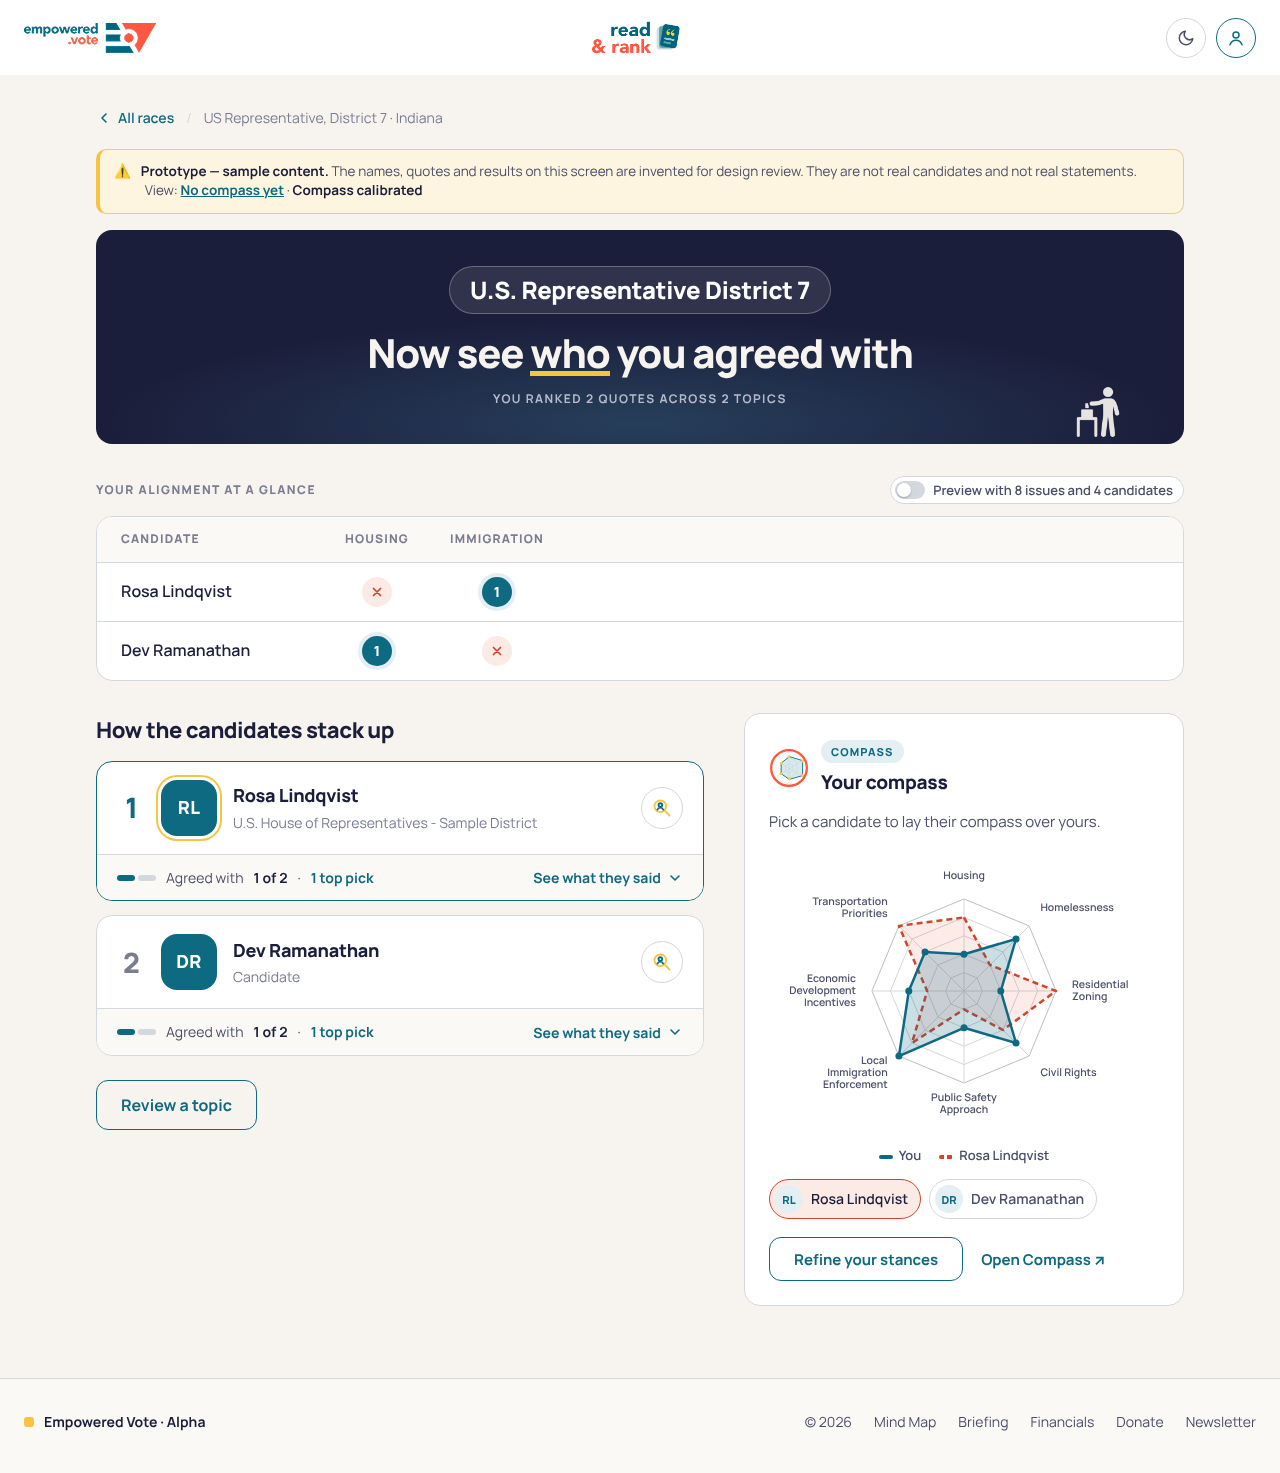
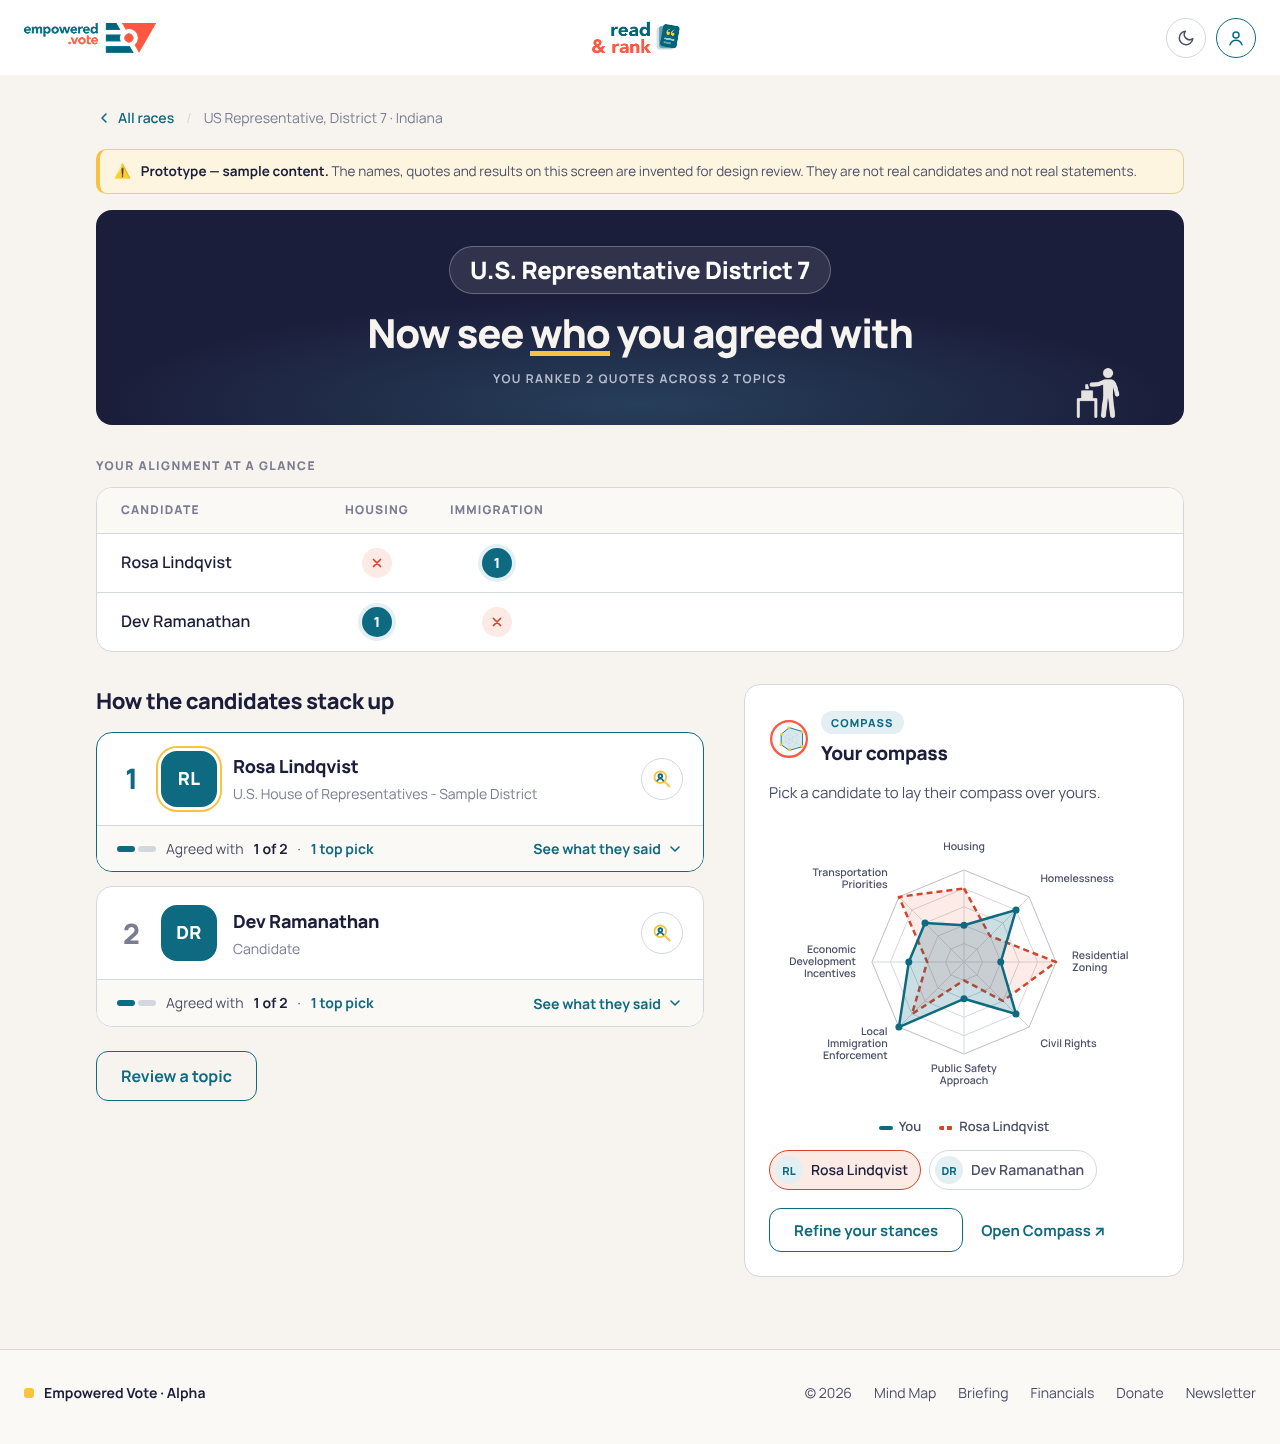
docs: Remove the 8-issue preview switch and the view links from the prototype notice
Claude-Session: https://claude.ai/code/session_01DwfCu4GsxXBrSLCryEySUF

diff --git a/docs/design/readrank-ux-redesign/prototype/ballot.html b/docs/design/readrank-ux-redesign/prototype/ballot.html
@@ -167,20 +167,7 @@
 
   /* Alignment at a glance: full-width table. When the topics don't fit, rows stack and wrap (see fitGlance). */
   .glance { margin-top: 32px; }
-  .glance .label { margin: 0; }
-  .glance-head { display: flex; flex-wrap: wrap; align-items: center; justify-content: space-between; gap: 8px 16px; margin-bottom: 12px; }
-  /* Prototype-only switch: fills the results with 8 sample issues and 4 sample candidates */
-  .preview-toggle {
-    display: inline-flex; align-items: center; gap: 8px; padding: 4px 10px 4px 4px; border-radius: 999px; cursor: pointer;
-    background: var(--surface); border: 1px solid var(--line); color: var(--ink-2); font: 600 13px/1.2 var(--font); text-align: left;
-  }
-  .preview-toggle:hover { border-color: var(--teal); color: var(--ink); }
-  .preview-toggle:focus-visible { outline: 3px solid color-mix(in srgb, var(--teal) 40%, transparent); outline-offset: 2px; }
-  .preview-toggle .switch { position: relative; flex: none; width: 30px; height: 18px; border-radius: 999px; background: var(--line); transition: background .15s ease; }
-  .preview-toggle .switch::after { content: ""; position: absolute; top: 2px; left: 2px; width: 14px; height: 14px; border-radius: 50%; background: #FFFFFF; box-shadow: 0 1px 2px rgba(0,0,0,.25); transition: translate .15s ease; }
-  .preview-toggle[aria-checked="true"] { border-color: var(--teal); color: var(--ink); }
-  .preview-toggle[aria-checked="true"] .switch { background: var(--teal); }
-  .preview-toggle[aria-checked="true"] .switch::after { translate: 12px 0; }
+  .glance .label { margin: 0 0 12px; }
   .glance-wrap { background: var(--surface); border: 1px solid var(--line); border-radius: 16px; overflow: hidden; }
   .glance-table { width: 100%; border-collapse: collapse; }
   .glance-table th, .glance-table td { padding: 14px 24px; text-align: left; }
@@ -404,10 +391,6 @@
     border-radius: 10px; color: var(--ink-2); font-size: 13.5px; line-height: 1.45;
   }
   .proto-note b { color: var(--ink); }
-  .proto-views { display: inline-block; margin-left: 4px; }
-  .proto-views a { white-space: nowrap; }
-  .proto-views a { color: var(--teal); font-weight: 700; }
-  .proto-views a[aria-current="page"] { color: var(--ink); text-decoration: none; }
 
   /* "Your compass" card: shown instead of the calibrate prompt once the user has a compass */
   .my-compass { padding: 24px; border-radius: 16px; background: var(--surface); border: 1px solid var(--line); }
@@ -497,8 +480,7 @@
       <p class="proto-note" role="note" style="--i:0">
         <span aria-hidden="true">⚠</span>
         <span><b>Prototype — sample content.</b> The names, quotes and results on this screen are
-        invented for design review. They are not real candidates and not real statements.
-        <span class="proto-views">View: <a href="#ballot" id="view-plain">No compass yet</a> · <a href="#ballot-compass" id="view-compass">Compass calibrated</a></span></span>
+        invented for design review. They are not real candidates and not real statements.</span>
       </p>
       <section class="hero" style="--i:0" aria-labelledby="hero-race ballot-title">
         <p class="hero-race" id="hero-race">U.S. Representative District 7</p>
@@ -508,12 +490,7 @@
       </section>
 
       <section class="glance" style="--i:1" aria-labelledby="glance-title">
-        <div class="glance-head">
-          <h2 class="label" id="glance-title">Your alignment at a glance</h2>
-          <button class="preview-toggle" type="button" role="switch" aria-checked="false" id="preview-toggle">
-            <span class="switch" aria-hidden="true"></span>Preview with 8 issues and 4 candidates
-          </button>
-        </div>
+        <h2 class="label" id="glance-title">Your alignment at a glance</h2>
         <div class="glance-wrap">
           <table class="glance-table">
             <thead>
@@ -678,35 +655,6 @@
 
     // Build the ballot for the race picked earlier (window.RR) from the rankings made on the
     // reading screen. Without window.RR the District 7 markup above stays as is.
-    // Prototype-only sample for the "Preview with 8 issues and 4 candidates" switch. Fictional
-    // candidates and bracketed placeholder quotes, like the rest of this screen's sample content.
-    var PREVIEW = (function () {
-      var ids = ['p1', 'p2', 'p3', 'p4'];
-      var names = ['Housing', 'Immigration', 'Health Care', 'Climate and Energy', 'Education', 'Public Safety', 'Taxes and Budget', 'Reproductive Rights'];
-      var topics = names.map(function (n, i) {
-        var order = ids.slice(i % 4).concat(ids.slice(0, i % 4)), cut = 2 + (i % 2);
-        var quoted = i === 5 ? ids.slice(0, 3) : ids;                      // one candidate has no quote on Public Safety
-        return {
-          key: 'preview-' + i, name: n, q: '[Question for ' + n + ']',
-          quotes: quoted.map(function (c) { return { c: c, text: '[Sample quote on ' + n + ']' }; }),
-          ranked: {
-            agreed: order.slice(0, cut).filter(function (c) { return quoted.indexOf(c) >= 0; }),
-            disagreed: order.slice(cut).filter(function (c) { return quoted.indexOf(c) >= 0; })
-          }
-        };
-      });
-      return {
-        office: 'US Representative', officeLong: 'U.S. Representative', seat: 'Sample District', state: 'Preview',
-        candidates: {
-          p1: { name: 'Rosa Lindqvist', ini: 'RL', office: 'U.S. House of Representatives - Sample District' },
-          p2: { name: 'Dev Ramanathan', ini: 'DR', office: 'Candidate' },
-          p3: { name: 'Marisol Okafor', ini: 'MO', office: 'Candidate' },
-          p4: { name: 'Theo Brandt-Whitfield', ini: 'TB', office: 'Candidate' }
-        },
-        topics: topics
-      };
-    })();
-    var preview = false;
 
     // ── "Your compass" card ─────────────────────────────────────────────
     // The user's stances come from the Compass steps in this session; otherwise a sample on the
@@ -768,7 +716,7 @@
 
     function render() {
       var RR = window.RR; if (!RR) return;
-      var race = preview ? PREVIEW : RR.race(), id = preview ? 'preview' : RR.active;
+      var race = RR.race(), id = RR.active;
       var where = ballot.closest('.page').querySelector('.crumbs .where:not(.sep)');
       if (where) where.textContent = race.office + ', ' + race.seat + ' · ' + race.state;
       var ranked = race.topics.map(function (t) { return { t: t, r: RR.result(id, t) || t.sample }; }).filter(function (x) { return x.r; });
@@ -860,10 +808,6 @@
       render();
       inform.hidden = hasCompass;
       document.getElementById('my-compass').hidden = !hasCompass;
-      [['view-plain', !hasCompass], ['view-compass', hasCompass]].forEach(function (v) {
-        var link = document.getElementById(v[0]);
-        if (v[1]) link.setAttribute('aria-current', 'page'); else link.removeAttribute('aria-current');
-      });
       ballot.querySelectorAll('.said').forEach(function (s) { s.classList.remove('open'); });
       ballot.querySelectorAll('.said-btn').forEach(function (b) { b.setAttribute('aria-expanded', 'false'); });
       if (reduced || from === 'compass' || from === 'ready' || from === 'ballot') { showBallot(); return; }
@@ -893,11 +837,6 @@
       compareWith = b.dataset.cand;
       this.querySelectorAll('.mc-cand').forEach(function (x) { x.setAttribute('aria-pressed', String(x === b)); });
       drawCompass(true);
-    });
-    document.getElementById('preview-toggle').addEventListener('click', function () {
-      preview = !preview;
-      this.setAttribute('aria-checked', String(preview));
-      render();
     });
 
     if (screen === document.body) run();

diff --git a/docs/design/readrank-ux-redesign/prototype/index.html b/docs/design/readrank-ux-redesign/prototype/index.html
@@ -1079,20 +1079,7 @@
 
   
   #s-ballot .glance { margin-top: 32px; }
-  #s-ballot .glance .label { margin: 0; }
-  #s-ballot .glance-head { display: flex; flex-wrap: wrap; align-items: center; justify-content: space-between; gap: 8px 16px; margin-bottom: 12px; }
-  
-  #s-ballot .preview-toggle {
-    display: inline-flex; align-items: center; gap: 8px; padding: 4px 10px 4px 4px; border-radius: 999px; cursor: pointer;
-    background: var(--surface); border: 1px solid var(--line); color: var(--ink-2); font: 600 13px/1.2 var(--font); text-align: left;
-  }
-  #s-ballot .preview-toggle:hover { border-color: var(--teal); color: var(--ink); }
-  #s-ballot .preview-toggle:focus-visible { outline: 3px solid color-mix(in srgb, var(--teal) 40%, transparent); outline-offset: 2px; }
-  #s-ballot .preview-toggle .switch { position: relative; flex: none; width: 30px; height: 18px; border-radius: 999px; background: var(--line); transition: background .15s ease; }
-  #s-ballot .preview-toggle .switch::after { content: ""; position: absolute; top: 2px; left: 2px; width: 14px; height: 14px; border-radius: 50%; background: #FFFFFF; box-shadow: 0 1px 2px rgba(0,0,0,.25); transition: translate .15s ease; }
-  #s-ballot .preview-toggle[aria-checked="true"] { border-color: var(--teal); color: var(--ink); }
-  #s-ballot .preview-toggle[aria-checked="true"] .switch { background: var(--teal); }
-  #s-ballot .preview-toggle[aria-checked="true"] .switch::after { translate: 12px 0; }
+  #s-ballot .glance .label { margin: 0 0 12px; }
   #s-ballot .glance-wrap { background: var(--surface); border: 1px solid var(--line); border-radius: 16px; overflow: hidden; }
   #s-ballot .glance-table { width: 100%; border-collapse: collapse; }
   #s-ballot .glance-table th, #s-ballot .glance-table td { padding: 14px 24px; text-align: left; }
@@ -1316,10 +1303,6 @@
     border-radius: 10px; color: var(--ink-2); font-size: 13.5px; line-height: 1.45;
   }
   #s-ballot .proto-note b { color: var(--ink); }
-  #s-ballot .proto-views { display: inline-block; margin-left: 4px; }
-  #s-ballot .proto-views a { white-space: nowrap; }
-  #s-ballot .proto-views a { color: var(--teal); font-weight: 700; }
-  #s-ballot .proto-views a[aria-current="page"] { color: var(--ink); text-decoration: none; }
 
   
   #s-ballot .my-compass { padding: 24px; border-radius: 16px; background: var(--surface); border: 1px solid var(--line); }
@@ -2917,8 +2900,7 @@
       <p class="proto-note" role="note" style="--i:0">
         <span aria-hidden="true">⚠</span>
         <span><b>Prototype — sample content.</b> The names, quotes and results on this screen are
-        invented for design review. They are not real candidates and not real statements.
-        <span class="proto-views">View: <a href="#ballot" id="view-plain">No compass yet</a> · <a href="#ballot-compass" id="view-compass">Compass calibrated</a></span></span>
+        invented for design review. They are not real candidates and not real statements.</span>
       </p>
       <section class="hero" style="--i:0" aria-labelledby="hero-race ballot-title">
         <p class="hero-race" id="hero-race">U.S. Representative District 7</p>
@@ -2928,12 +2910,7 @@
       </section>
 
       <section class="glance" style="--i:1" aria-labelledby="glance-title">
-        <div class="glance-head">
-          <h2 class="label" id="glance-title">Your alignment at a glance</h2>
-          <button class="preview-toggle" type="button" role="switch" aria-checked="false" id="preview-toggle">
-            <span class="switch" aria-hidden="true"></span>Preview with 8 issues and 4 candidates
-          </button>
-        </div>
+        <h2 class="label" id="glance-title">Your alignment at a glance</h2>
         <div class="glance-wrap">
           <table class="glance-table">
             <thead>
@@ -4532,35 +4509,6 @@
 
     // Build the ballot for the race picked earlier (window.RR) from the rankings made on the
     // reading screen. Without window.RR the District 7 markup above stays as is.
-    // Prototype-only sample for the "Preview with 8 issues and 4 candidates" switch. Fictional
-    // candidates and bracketed placeholder quotes, like the rest of this screen's sample content.
-    var PREVIEW = (function () {
-      var ids = ['p1', 'p2', 'p3', 'p4'];
-      var names = ['Housing', 'Immigration', 'Health Care', 'Climate and Energy', 'Education', 'Public Safety', 'Taxes and Budget', 'Reproductive Rights'];
-      var topics = names.map(function (n, i) {
-        var order = ids.slice(i % 4).concat(ids.slice(0, i % 4)), cut = 2 + (i % 2);
-        var quoted = i === 5 ? ids.slice(0, 3) : ids;                      // one candidate has no quote on Public Safety
-        return {
-          key: 'preview-' + i, name: n, q: '[Question for ' + n + ']',
-          quotes: quoted.map(function (c) { return { c: c, text: '[Sample quote on ' + n + ']' }; }),
-          ranked: {
-            agreed: order.slice(0, cut).filter(function (c) { return quoted.indexOf(c) >= 0; }),
-            disagreed: order.slice(cut).filter(function (c) { return quoted.indexOf(c) >= 0; })
-          }
-        };
-      });
-      return {
-        office: 'US Representative', officeLong: 'U.S. Representative', seat: 'Sample District', state: 'Preview',
-        candidates: {
-          p1: { name: 'Rosa Lindqvist', ini: 'RL', office: 'U.S. House of Representatives - Sample District' },
-          p2: { name: 'Dev Ramanathan', ini: 'DR', office: 'Candidate' },
-          p3: { name: 'Marisol Okafor', ini: 'MO', office: 'Candidate' },
-          p4: { name: 'Theo Brandt-Whitfield', ini: 'TB', office: 'Candidate' }
-        },
-        topics: topics
-      };
-    })();
-    var preview = false;
 
     // ── "Your compass" card ─────────────────────────────────────────────
     // The user's stances come from the Compass steps in this session; otherwise a sample on the
@@ -4622,7 +4570,7 @@
 
     function render() {
       var RR = window.RR; if (!RR) return;
-      var race = preview ? PREVIEW : RR.race(), id = preview ? 'preview' : RR.active;
+      var race = RR.race(), id = RR.active;
       var where = ballot.closest('.page').querySelector('.crumbs .where:not(.sep)');
       if (where) where.textContent = race.office + ', ' + race.seat + ' · ' + race.state;
       var ranked = race.topics.map(function (t) { return { t: t, r: RR.result(id, t) || t.sample }; }).filter(function (x) { return x.r; });
@@ -4714,10 +4662,6 @@
       render();
       inform.hidden = hasCompass;
       document.getElementById('my-compass').hidden = !hasCompass;
-      [['view-plain', !hasCompass], ['view-compass', hasCompass]].forEach(function (v) {
-        var link = document.getElementById(v[0]);
-        if (v[1]) link.setAttribute('aria-current', 'page'); else link.removeAttribute('aria-current');
-      });
       ballot.querySelectorAll('.said').forEach(function (s) { s.classList.remove('open'); });
       ballot.querySelectorAll('.said-btn').forEach(function (b) { b.setAttribute('aria-expanded', 'false'); });
       if (reduced || from === 'compass' || from === 'ready' || from === 'ballot') { showBallot(); return; }
@@ -4747,11 +4691,6 @@
       compareWith = b.dataset.cand;
       this.querySelectorAll('.mc-cand').forEach(function (x) { x.setAttribute('aria-pressed', String(x === b)); });
       drawCompass(true);
-    });
-    document.getElementById('preview-toggle').addEventListener('click', function () {
-      preview = !preview;
-      this.setAttribute('aria-checked', String(preview));
-      render();
     });
 
     if (screen === document.body) run();

diff --git a/docs/design/readrank-ux-redesign/README.md b/docs/design/readrank-ux-redesign/README.md
@@ -18,8 +18,8 @@ This folder holds a clickable HTML prototype of a visual/UX refresh of the Read 
 | 3 | Choose your issues (in-progress race) | `04-choose-issues.png` |
 | 4 | Read a quote: agree / disagree, arrow-key shortcuts | `05-read-quote.png` |
 | 5 | After answering: ranking panel (reorderable), disagreed tray, topic complete | `06-topic-complete-ranking.png` |
-| 6 | Your rankings (full ballot): loading step, then staged reveal; a "Preview with 8 issues and 4 candidates" switch fills it with fictional sample data to check the many-issues layout | `07-ballot-loading.png`, `08-full-ballot.png` |
-| 6b | Your rankings, for a user who already has a calibrated compass (`#ballot-compass`): a "Your compass" card with a candidate overlay replaces the Calibrate prompt. Reached from "See your matches" at the end of Compass; the ballot screen's notice links switch between the two versions | `13-ballot-compass.png`, `14-ballot-compass-phone.png` |
+| 6 | Your rankings (full ballot): loading step, then staged reveal | `07-ballot-loading.png`, `08-full-ballot.png` |
+| 6b | Your rankings, for a user who already has a calibrated compass (`#ballot-compass`): a "Your compass" card with a candidate overlay replaces the Calibrate prompt. Reached from "See your matches" at the end of Compass, or directly at `prototype/index.html#ballot-compass` (and `#ballot` for the version without a compass) | `13-ballot-compass.png`, `14-ballot-compass-phone.png` |
 | 7 | Compass step 1: choose topics (3–8) | `09-compass-choose-topics.png` |
 | 8 | Compass step 2: your stances, with a 2-step guide pop-up | `10-stances-guide.png`, `11-stances.png` |
 | 9 | Compass step 3: compass ready, compare animation | `12-compass-ready-compared.png` |
